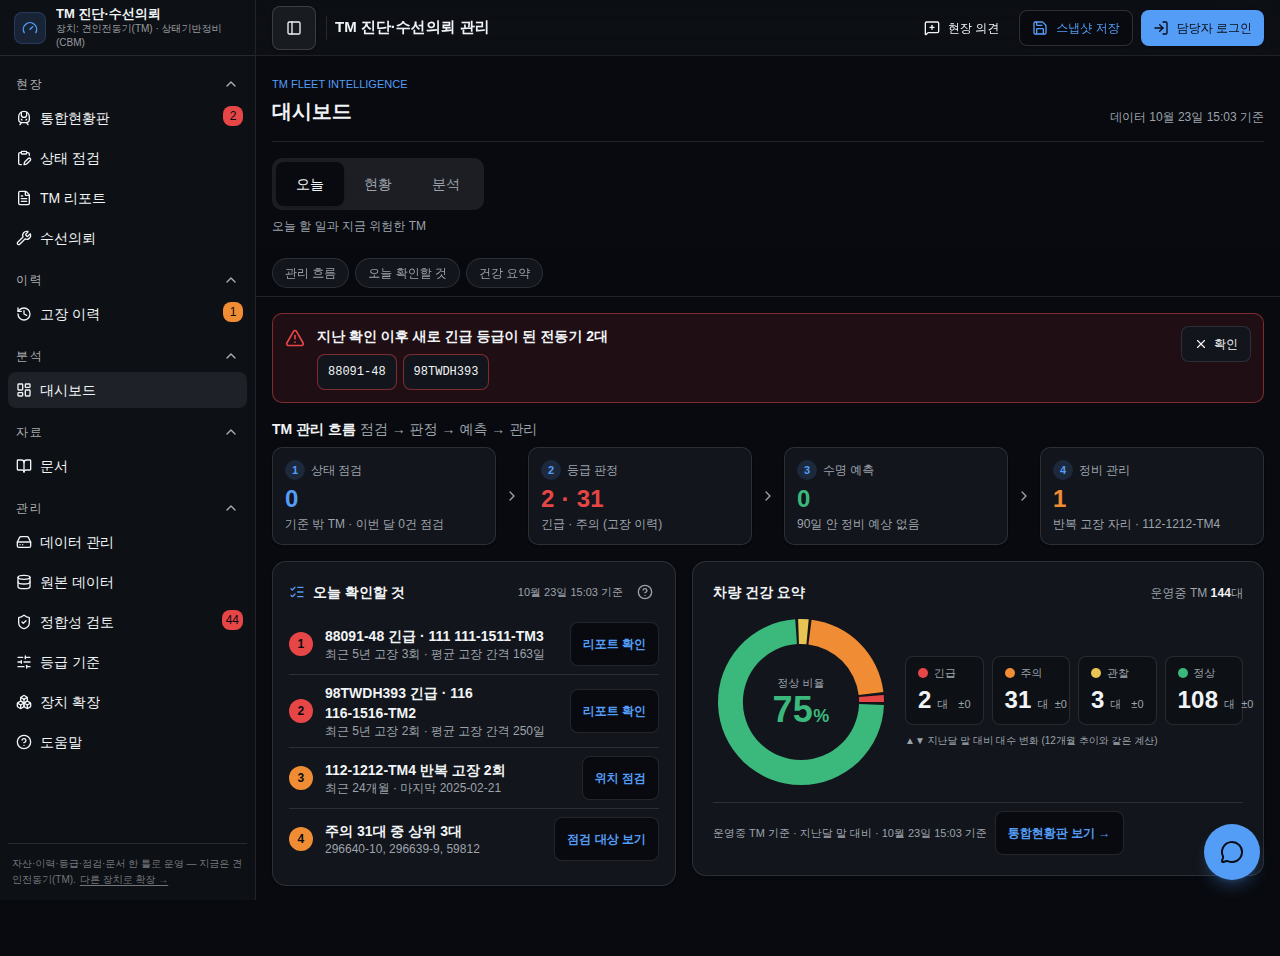
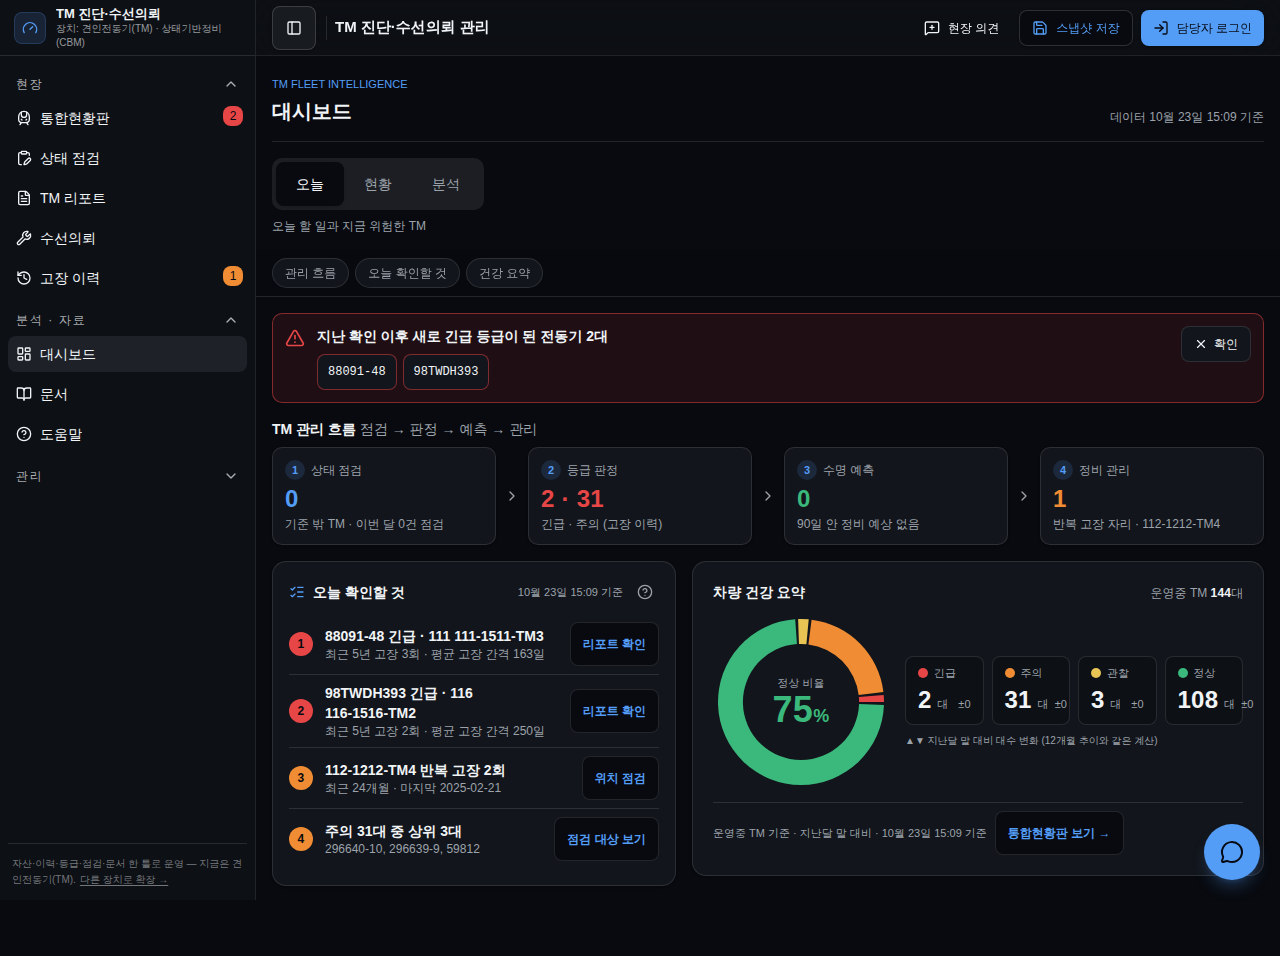
작업 기록: 화면 정돈(위젯 버튼·분석 탭·메뉴·수명 예측 근거별 상태)
Claude-Session: https://claude.ai/code/session_013MqecRsxRZ5DKizqo8ERr9

diff --git a/migration-data/README.md b/migration-data/README.md
@@ -1763,6 +1763,14 @@ workspace `GS8VAndim2d3OBu4TcTX` = "권휘진's Lovable")에 원본 데이터를
   - `migration-data/발표_시연대본_2026-10-23.md`: 5분 순서(오늘 탭 → 현황판 → 점검 입력 기준 밖 경고 → 수명 예측 → 챗봇 6문장 → 장치 확장),
     지축 대비 표, 예상 질문 답(점검값은 '초기 점검값'으로 소개, 실측 결과라 하지 말 것), 리허설 체크리스트.
   - 검증: 단위 278, q3·q500·sim·multi·fuzz 0 실패, facts 0, 21개 라우트 휴대폰·PC 오류·넘침 0.
+- **화면 정돈 — '기능 하나하나 신경 쓴 느낌' (tm-cbm commit `1549f9f`)**: 사용자 "기능 하나하나 신경 많이 썼네 하는 느낌 줘야 해, 막 남발하고 난잡한 느낌 주면 안 돼".
+  - 휴대폰 대시보드: 모든 위젯 오른쪽 위 ↑↓ 버튼(순서 바꾸기)이 늘 보여 어수선 → '위젯 선택'을 연 동안만 표시.
+  - 분석 탭: 숫자 일곱 칸 → 네 칸(보유·운영중·누적 고장·12개월 고장성 교체; 긴급/주의는 오늘 탭과 중복, 평균 위험점수는 뜻이 모호),
+    제조사 평균 위험도(제조사 신뢰도와 겹침)·월별 수선의뢰 추이(현황 탭 고장 추이와 겹침) 기본 숨김. 휴대폰 4.9 → 3.5화면.
+  - 메뉴: 한 항목짜리 묶음(이력·분석·자료) → 현장(현황판·상태 점검·리포트·수선의뢰·고장 이력) / 분석·자료(대시보드·문서·도움말) / 관리(기본 접힘).
+  - 수명 예측: '아직 산출된 TM이 없어요' 한 줄 → 근거 세 칸(고장 간격·브러시 마모·절연저항 저하)마다 산출 대수와 모자란 것
+    (지금: 장기 무고장 2대·고장 2회 미만 142대, 측정 1회 144대 — 다음 점검부터 추세). `RulBasis.status` 추가.
+  - 검증: 단위 284, q3·q500·sim·multi·facts 0 실패, 휴대폰·PC 오류·넘침 0. 화면 `screens-2026-10-23/상태점검_정돈_휴대폰.png`, `대시보드_관리흐름_PC.png`.
 - **'이것저것 끼워 넣은 느낌' 정리 (tm-cbm commit `8dc5ff1`)**: 사용자 "원래 취지에서 벗어나서 이것저것 아무거나 다 끼워 넣었네, 이런 느낌 주면 안 돼".
   - 대시보드 오늘 탭 머리 여섯 칸('이 시스템이 보는 것': 등급·점검·수명·반복 위치·예비품·AI, 칸마다 '왜 다른가' 홍보 문구) →
     **'TM 관리 흐름' 네 칸: ① 상태 점검 → ② 등급 판정 → ③ 수명 예측 → ④ 정비 관리**(숫자 하나 + 한 줄). 예비품·AI 칸 제거.
